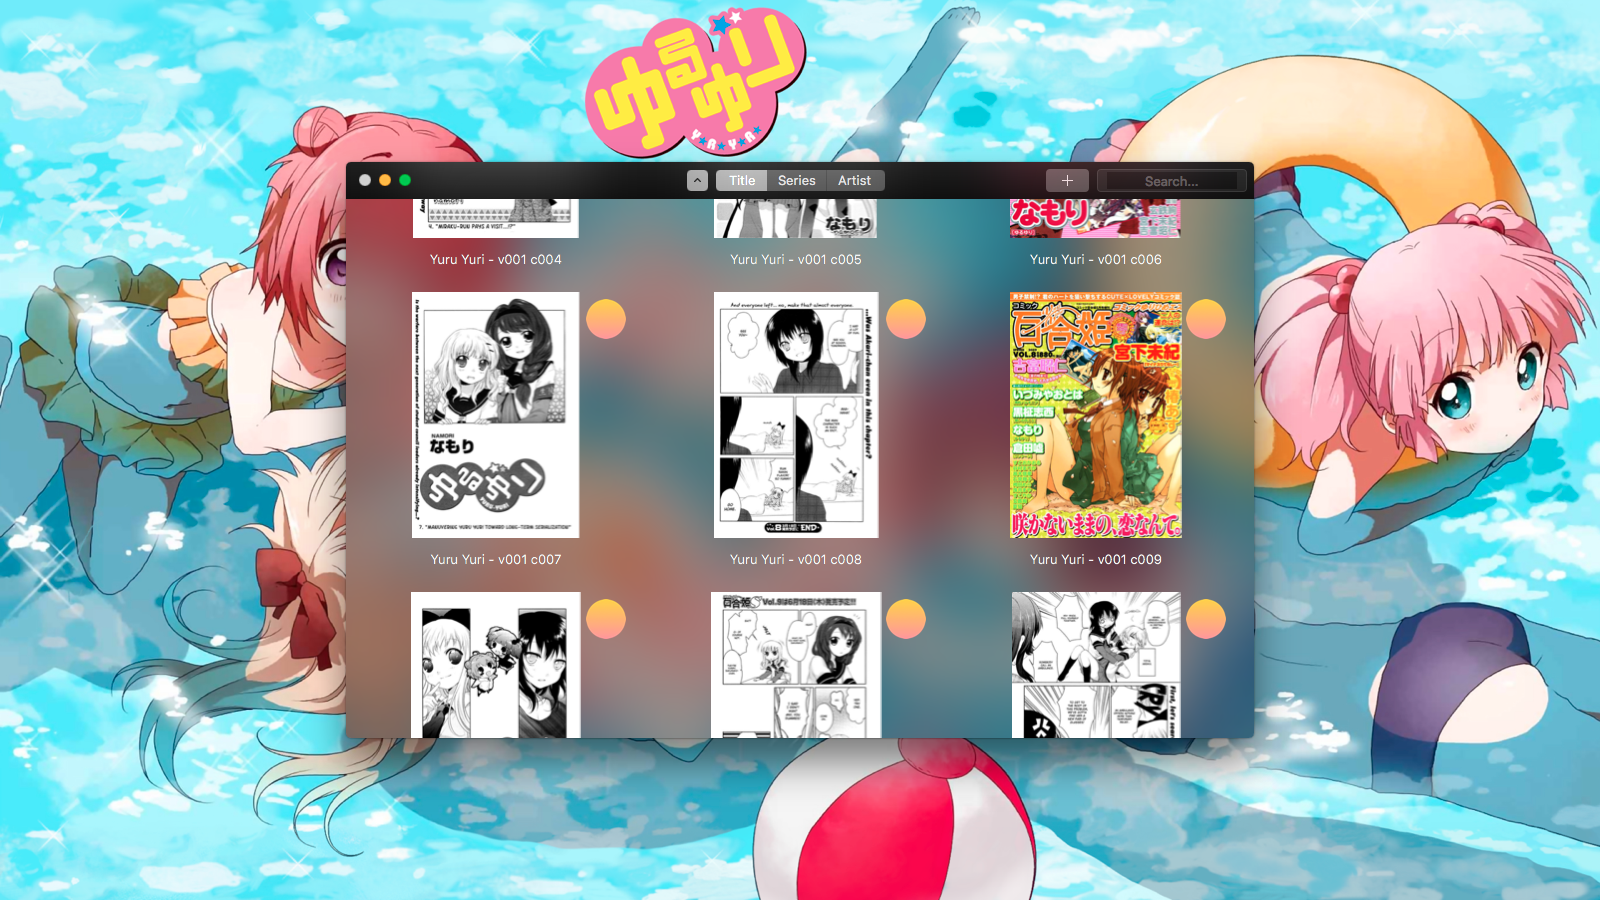
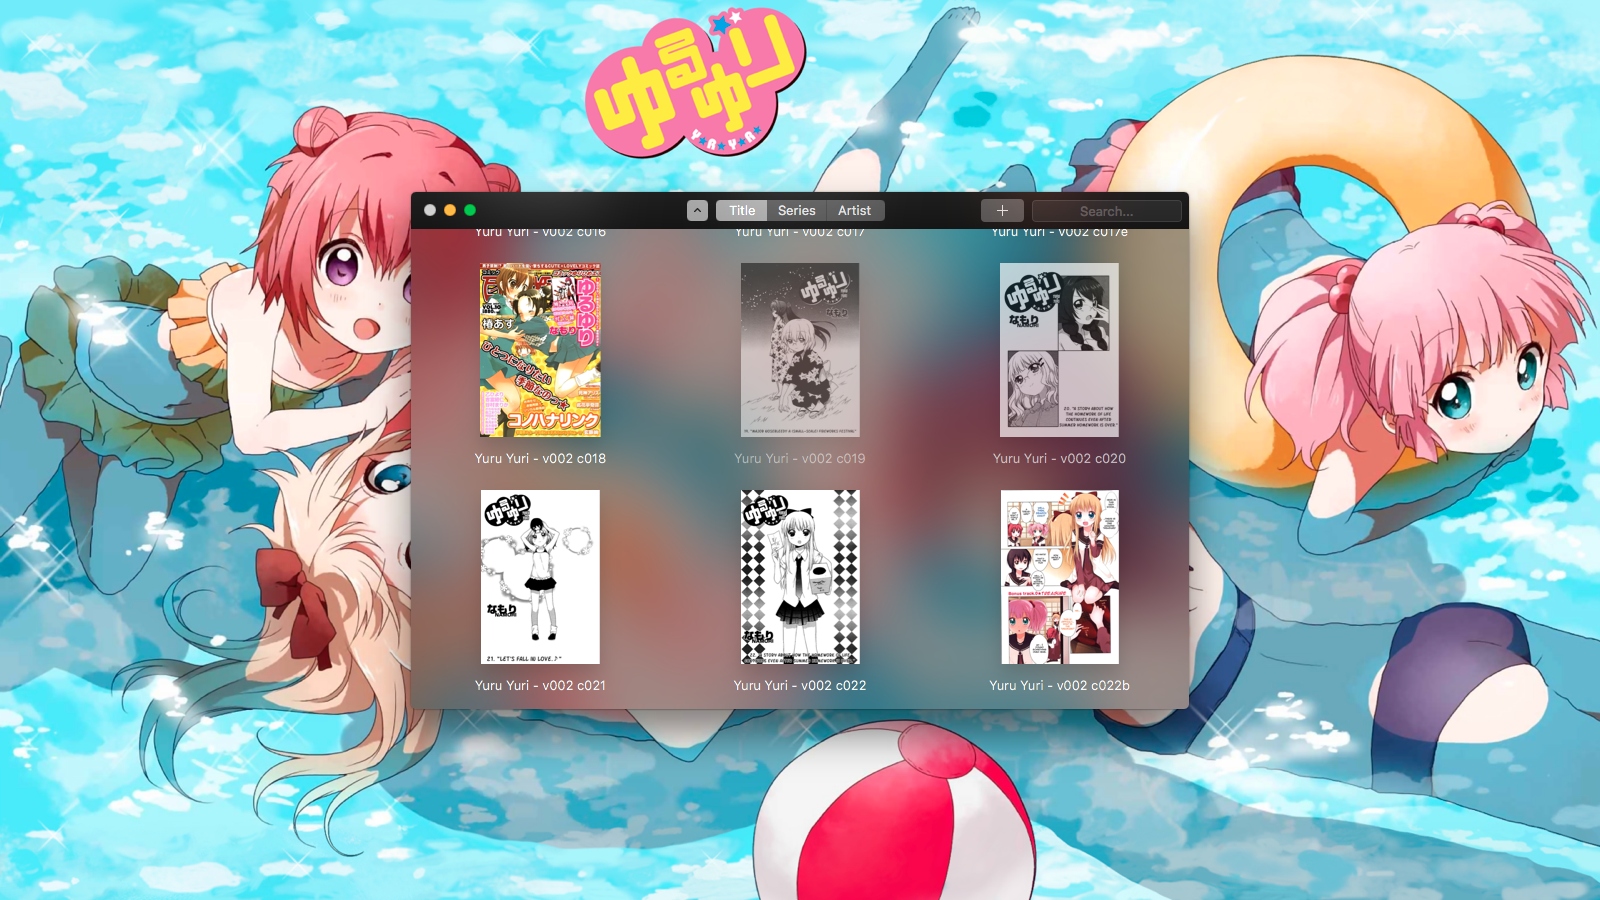
Updated README and screenshots

Changed region(s): [[0.1875, 0.1556, 0.8125, 0.8711]]

diff --git a/README.md b/README.md
@@ -26,6 +26,7 @@ Requires at least OSX 10.10 Yosemite. Tested on OSX 10.11 El Capitan
 > * Set Series, Artist, Writer, Tags, Group, Favourite and mark as l-lewd... on import
 > * Edit any of the above after import(Either one at a time or by groups)
 > * Use JSON to predefine info about multiple or single Manga
+> * Fetch Metadata from <a href="http://mcd.iosphe.re/">http://mcd.iosphe.re/</a>
 > * Custom cover images(Uses first page of Manga by default)
 > * Never moves or deletes your original Manga files
 > * Sorting by Title, Series and Artist
@@ -60,8 +61,8 @@ Requires at least OSX 10.10 Yosemite. Tested on OSX 10.11 El Capitan
 
 > > * Title
 > > * Series
-> > * Artist
-> > * Writer
+> > * Artist(And exclude artists)
+> > * Writer(And exclude writers)
 > > * Tags(And exclude tags)
 > > * Groups(And exclude groups)
 > > * Favourites
